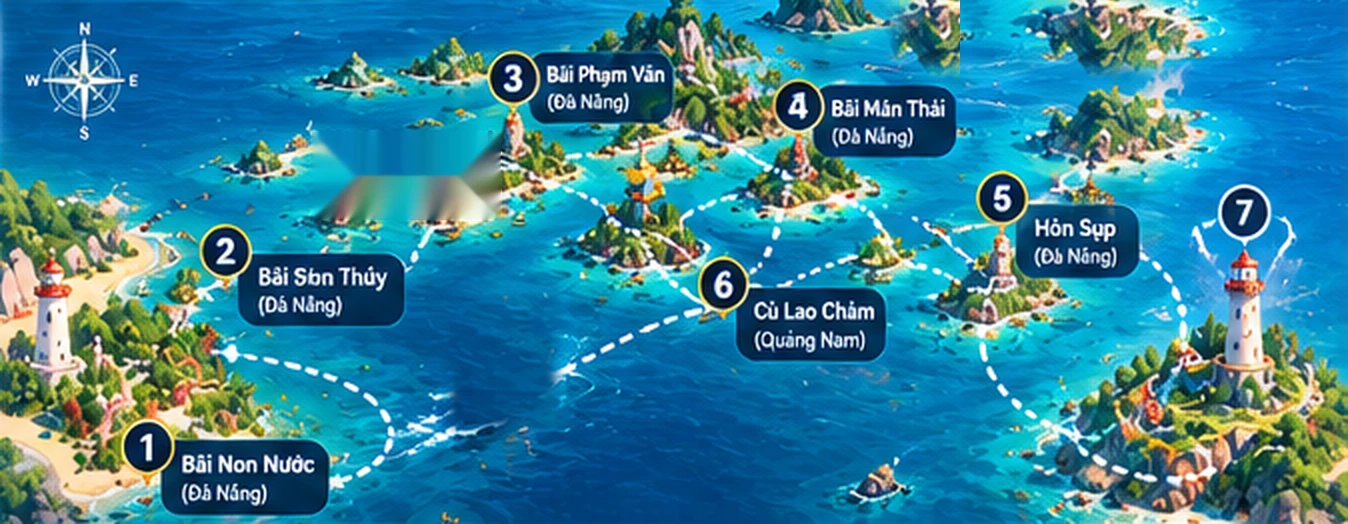
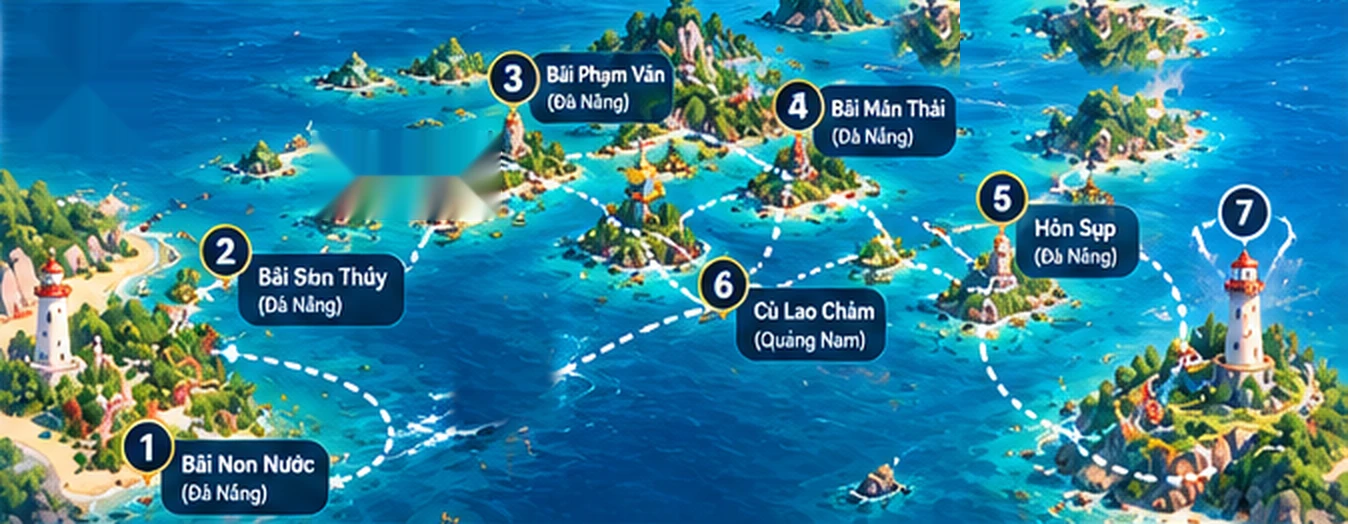
feat: Voyage map uses the G3 compass and G1 landmark islands (#693)
Claude-Session: https://claude.ai/code/session_01YSdMBiuLJjP96Cj6dbxXAR

Changed region(s): [[0.0, 0.0305, 0.1246, 0.2748]]

diff --git a/src/components/voyage/route-map.tsx b/src/components/voyage/route-map.tsx
@@ -2,11 +2,12 @@ import { useTranslations } from "next-intl";
 import { ArtImage } from "@/components/art/art-image";
 import { StartOriginLabel } from "@/components/starts/team-start-card";
 import { ProgressBar } from "@/components/ui";
+import { landmarkArt } from "@/lib/art/route01-art";
 import { MAP_ASPECT } from "@/lib/routes/destinations-passed";
 import { formatProgressPct } from "@/lib/scoring/progress";
 import { ScrollToShip } from "./scroll-to-ship";
 import { ShipMarker } from "./ship-marker";
-import { VOYAGE_MAP_ART, VOYAGE_SHIP_ART } from "./voyage-art";
+import { compassArt, VOYAGE_MAP_ART, VOYAGE_SHIP_ART } from "./voyage-art";
 import styles from "./voyage.module.css";
 
 export type RouteMapProps = {
@@ -77,6 +78,7 @@ export function RouteMap({
               className={styles.background}
               fallback={<div className={styles.backgroundFallback} />}
             />
+            <ArtImage art={compassArt()} alt="" className={styles.compass} fallback={null} />
             {path && (
               <svg
                 data-testid="route-path"
@@ -104,7 +106,13 @@ export function RouteMap({
                 data-finish={d.isFinish || undefined}
                 style={{ left: `${d.x}%`, top: `${d.y}%` }}
               >
-                {/* The landmark itself is painted on the map art; the pin shows the route order. */}
+                {/* Landmark island (G1 art) under the numbered pin, which shows the route order. */}
+                <ArtImage
+                  art={landmarkArt(d.slug)}
+                  alt=""
+                  className={styles.landmark}
+                  fallback={null}
+                />
                 <span aria-hidden="true" className={styles.pin}>
                   {i + 1}
                 </span>

diff --git a/src/components/voyage/voyage-art.ts b/src/components/voyage/voyage-art.ts
@@ -1,9 +1,10 @@
+import { mockupArt } from "@/lib/art/mockup-art";
 import type { ArtAsset } from "@/lib/art/route01-art";
 
 /*
  * Temporary art for the voyage screen, cut from the stakeholder mockup by
- * scripts/art/cut_screen_voyage.py. Swap for the shared group assets (map: G3, ships: G2) once
- * they are on main.
+ * scripts/art/cut_screen_voyage.py. Swap for the shared group assets once they
+ * exist (no group has a top-down Route 01 map scene yet; ships: G2).
  */
 
 /** Route 01 map scene, 18:7, painted pins and name pills at the anchors in map-anchors.json. */
@@ -21,3 +22,17 @@ export const VOYAGE_SHIP_ART: ArtAsset = {
   source: "cut-out",
   replacementNeed: "Transparent ship, bow facing right, readable at 32 px, no text",
 };
+
+/** Compass rose from the G3 map elements (WebP, PNG fallback); undefined until it is registered. */
+export function compassArt(): ArtAsset | undefined {
+  const art = mockupArt("compass-rose") ?? mockupArt("map/compass-rose");
+  return (
+    art && {
+      key: art.key,
+      path: art.webp,
+      fallbackPath: art.file,
+      source: "cut-out",
+      replacementNeed: "Square compass rose, no letters",
+    }
+  );
+}

diff --git a/src/components/voyage/voyage.module.css b/src/components/voyage/voyage.module.css
@@ -148,6 +148,14 @@
   background: var(--sq-gradient-sea);
 }
 
+.compass {
+  position: absolute;
+  left: 1%;
+  top: 2.5%;
+  width: 10%;
+  height: auto;
+}
+
 .path {
   position: absolute;
   inset: 0;
@@ -158,6 +166,19 @@
 .path polyline {
   stroke: var(--sq-foam);
   opacity: 0.85;
+}
+
+/* Landmark island (G1, 4:3) centred a little below the pin, like the islands under the
+   mockup's pins. */
+.landmark {
+  position: absolute;
+  left: 0;
+  top: 0;
+  width: 9cqw;
+  max-width: none;
+  height: auto;
+  transform: translate(-50%, -38%);
+  filter: var(--sq-shadow-drop);
 }
 
 /* Zero-size anchor: the numbered pin is centred on the anchor, the name pill sits beside it. */

diff --git a/scripts/art/cut_screen_voyage.py b/scripts/art/cut_screen_voyage.py
@@ -7,8 +7,9 @@ Writes public/art/mockup/screen-voyage/:
 - map-route01.webp: the Route 01 map scene of the "BẢN ĐỒ HẢI TRÌNH ROUTE 01" panel, 2x LANCZOS,
   18:7 (1348 x 524). The painted pins and name pills stay: the app draws its own pins and pills on
   top at the same anchors (public/art/route01/map-anchors.json). Painted UI with no app
-  counterpart is removed: the team card corner, the duplicate "3 Bãi Sơn Thủy" pill and the
-  painted ship (the app draws the team's ship).
+  counterpart is removed: the team card corner, the duplicate "3 Bãi Sơn Thủy" pill, the
+  painted compass (the page draws map/compass-rose) and the painted ship (the app draws the
+  team's ship).
 - ship-map.png: the painted ship from the same map, sea keyed out.
 Swap both for the shared group assets (map: G3, ships: G2) once they are on main.
 """
@@ -43,10 +44,12 @@ def cut_map(im: Image.Image) -> Image.Image:
     mask.paste(255, (40, 0, card.size[0], 40))
     scene.paste(card, (880, -16), mask)
 
-    # Duplicate "3" pill: inpainted from its surroundings.
+    # Duplicate "3" pill and the painted compass (with its N/E/S/W letters; the page draws the
+    # G3 compass-rose instead): inpainted from their surroundings.
     a = cv2.cvtColor(np.array(scene), cv2.COLOR_RGB2BGR)
     hole = np.zeros(a.shape[:2], np.uint8)
     cv2.rectangle(hole, (312, 132), (500, 218), 255, -1)
+    cv2.rectangle(hole, (14, 14), (152, 150), 255, -1)
     a = cv2.inpaint(a, hole, 15, cv2.INPAINT_NS)
     scene = Image.fromarray(cv2.cvtColor(a, cv2.COLOR_BGR2RGB))
 
